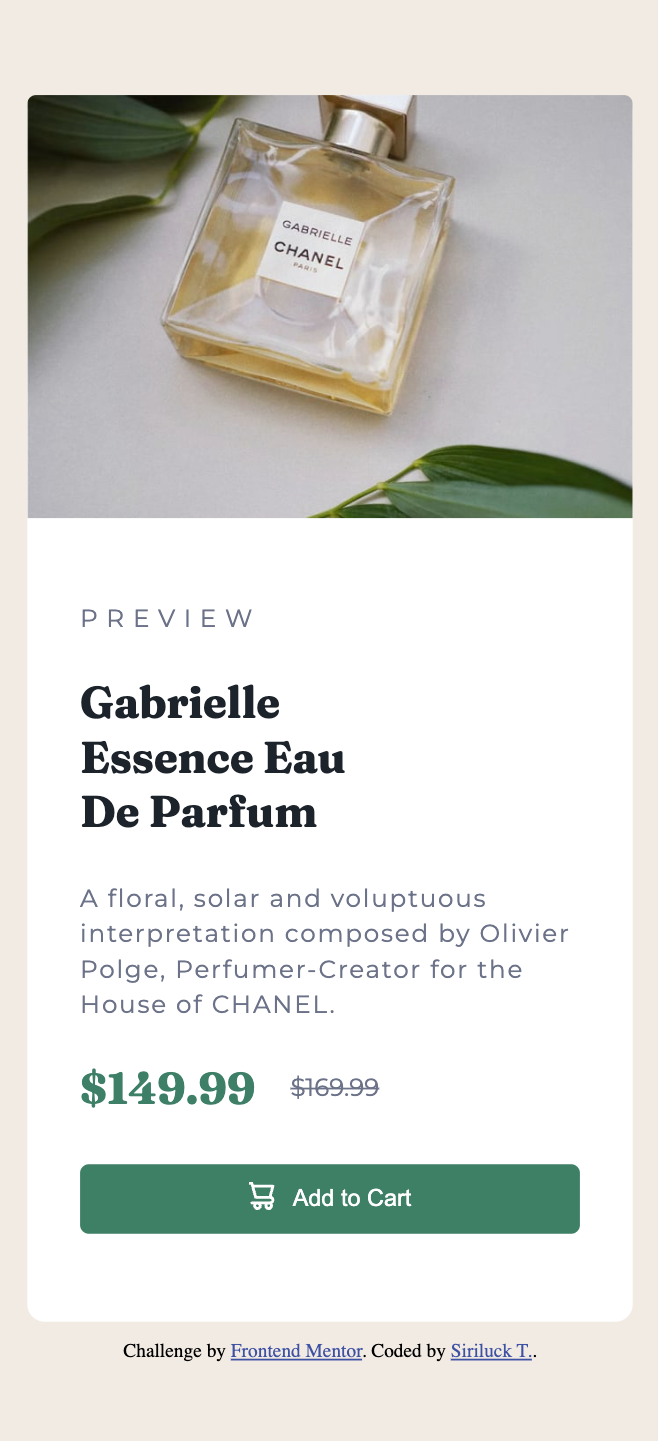
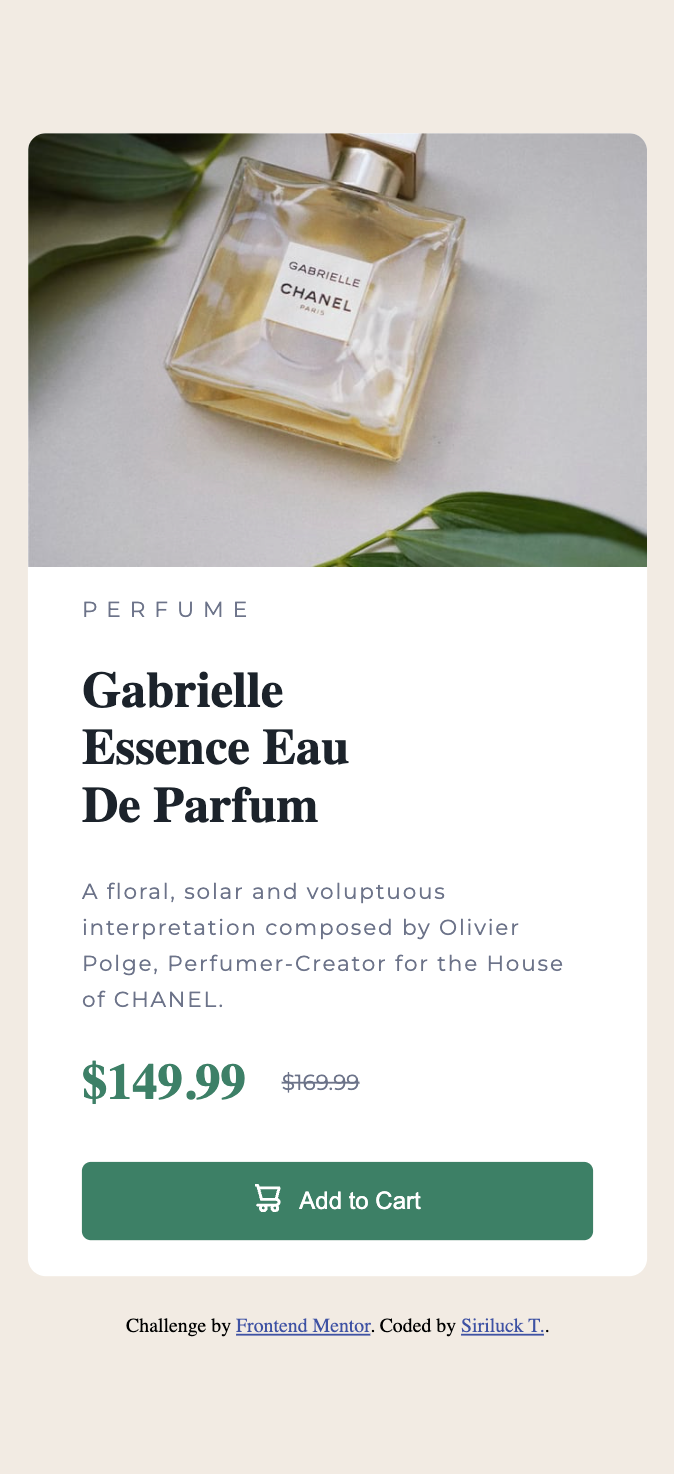
updated README.md, index.html, images. add style.css

Changed region(s): [[0.0304, 0.0624, 0.9726, 0.9667]]

diff --git a/index.html b/index.html
@@ -1,5 +1,6 @@
 <!DOCTYPE html>
 <html lang="en">
+
 <head>
   <meta charset="UTF-8">
   <meta name="viewport" content="width=device-width, initial-scale=1.0"> <!-- displays site properly based on user's device -->
@@ -11,107 +12,23 @@
   <link rel="stylesheet" href="https://fonts.google.com/specimen/Fraunces">
   <link rel="preconnect" href="https://fonts.googleapis.com">
   <link rel="preconnect" href="https://fonts.gstatic.com" crossorigin>
-  <link href="https://fonts.googleapis.com/css2?family=Montserrat:ital,wght@0,100;0,200;0,300;0,400;0,500;0,600;0,700;0,800;0,900;1,100;1,200;1,300;1,400;1,500;1,600;1,700;1,800;1,900&display=swap" rel="stylesheet">
-  <link href="https://fonts.googleapis.com/css2?family=Fraunces:ital,opsz,wght@0,9..144,100;0,9..144,200;0,9..144,300;0,9..144,400;0,9..144,500;0,9..144,600;0,9..144,700;0,9..144,800;0,9..144,900;1,9..144,100;1,9..144,200;1,9..144,300;1,9..144,400;1,9..144,500;1,9..144,600;1,9..144,700;1,9..144,800;1,9..144,900&display=swap" rel="stylesheet">
+  <link href="https://fonts.googleapis.com/css2?family=Montserrat:ital,wght@0,100;0,200;0,300;0,400;0,500;0,600;0,700;0,800;0,900;1,100;1,200;1,300;1,400;1,500;1,600;1,700;1,800;1,900&Fraunces:ital,opsz,wght@0,9..144,100;0,9..144,200;0,9..144,300;0,9..144,400;0,9..144,500;0,9..144,600;0,9..144,700;0,9..144,800;0,9..144,900;1,9..144,100;1,9..144,200;1,9..144,300;1,9..144,400;1,9..144,500;1,9..144,600;1,9..144,700;1,9..144,800;1,9..144,900&display=swap" rel="stylesheet">
+
+  <!-- css -->
+  <link rel="stylesheet" href="./style.css">
 
   <title>Frontend Mentor | Product preview card component</title>
-
-  <style>
-    body {
-      background-color: hsl(30, 38%, 92%);
-    }
-    html, body
-    {
-      height: 100%;
-    }
-    .attribution { 
-      font-size: 11px; text-align: center; 
-    }
-    .attribution a { 
-      color: hsl(228, 45%, 44%); 
-    }
-    .container {
-      margin: 0;
-      padding: 0;
-      display: flex;
-      flex-direction: column;
-      justify-content: center;
-      align-items: center;
-      height: 100vh;
-    }
-    .card-desk {
-      background-color: hsl(0, 0%, 100%);
-      border-radius: 10px;
-      width: 602px;
-      height: 450px;
-      display: flex;
-    }
-    .card-mobi {
-      display: none;
-    }
-    .container-text {
-      display: flex;
-      flex-direction: column;
-      justify-content: center;
-      padding: 30px;
-    }
-    .container-text-price {
-      display: flex;
-      align-items: center;
-    }
-    .img-desk {
-      border-radius: 10px 0 0 10px;
-    }
-    .side-text {
-      font-family: 'Montserrat', sans-serif;
-      color: hsl(228, 12%, 48%);
-      font-size: 14px;
-    }
-    .header-text-num {
-      font-family: 'Fraunces', serif;
-      color: hsl(212, 21%, 14%);
-      font-size: 25px;
-    }
-    .btn-add-to-card {
-      border: none;
-      border-radius: 5px;
-      margin: 20px 0;
-      padding: 10px 0;
-      background-color: hsl(158, 36%, 37%); 
-      display: flex; 
-      justify-content: center;
-      align-items: center;
-    }
-    button:hover {
-      background-color: hsl(156, 42%, 18%); 
-      cursor: pointer;
-    }
-    @media screen and (max-width: 605px){
-      .card-desk {
-        display: none;
-      }
-      .card-mobi {
-        display: flex;
-        width: 344px;
-        display: flex;
-        flex-direction: column;
-        background-color: hsl(0, 0%, 100%);
-        border-radius: 10px;;
-      }
-      .img-mobi {
-        border-radius: 5px 5px 0 0;
-      }
-    }
-  </style>
+  
 </head>
 <body>
   <section class="container">
-    <div class="card-desk">
-      <div>
-        <img src="https://misssiriluck.github.io/product-preview-card-component/images/image-product-desktop.jpg" class="img-desk" style="width: 300px;">
-      </div>
+    <div class="card">
+      <picture>
+        <source media="(max-width:605px)" srcset="https://misssiriluck.github.io/product-preview-card-component/images/image-product-mobile.jpg" alt="Gabrielle Essence Eau De Parfum" class="img-desk">
+        <img src="https://misssiriluck.github.io/product-preview-card-component/images/image-product-desktop.jpg" alt="Gabrielle Essence Eau De Parfum" class="img-desk">
+      </picture>
       <div class="container-text">
-        <p class="side-text" style="text-transform: uppercase; letter-spacing: 5px;">Preview</p>
+        <p class="side-text" style="text-transform: uppercase; letter-spacing: 5px;">Perfume</p>
 
         <h1 class="header-text-num" style="margin: 10px 0;">Gabrielle<br /> Essence Eau<br /> De Parfum</h1>
 
@@ -125,36 +42,12 @@
           <p class="side-text" style="margin: 0;"><s>$169.99</s></p>
         </div>
 
-        <button class="btn-add-to-card" style="color:hsl(0, 0%, 100%);"><span><img src="https://misssiriluck.github.io/product-preview-card-component/images/icon-cart.svg" style="padding-right: 10px;"></span>Add to Cart</button>
-      </div>
-    </div>
-    
-    <div class="card-mobi">
-      <div>
-        <img src="https://misssiriluck.github.io/product-preview-card-component/images/image-product-mobile.jpg" class="img-mobi" style="width: 344px;">
-      </div>
-      <div class="container-text">
-        <p class="side-text" style="text-transform: uppercase; letter-spacing: 5px;">Preview</p>
-
-        <h1 class="header-text-num" style="margin: 10px 0;">Gabrielle<br /> Essence Eau<br /> De Parfum</h1>
-
-        <p class="side-text" style="letter-spacing: 1px; line-height: 20px;">
-          A floral, solar and voluptuous interpretation composed by Olivier Polge, 
-          Perfumer-Creator for the House of CHANEL.
-        </p>
-
-        <div class="container-text-price" style="margin: 8px 0">
-          <h1 class="header-text-num" style="margin: 0; padding-right: 20px; color:hsl(158, 36%, 37%);">$149.99</h1>
-          <p class="side-text" style="margin: 0;"><s>$169.99</s></p>
-        </div>
-
-        <button class="btn-add-to-card" style="color:hsl(0, 0%, 100%);"><span><img src="https://misssiriluck.github.io/product-preview-card-component/images/icon-cart.svg" style="padding-right: 10px;"></span>Add to Cart</button>
+        <button class="btn-add-to-card" style="color:hsl(0, 0%, 100%);"><span><img src="https://misssiriluck.github.io/product-preview-card-component/images/icon-cart.svg" alt="icon-cart" style="padding-right: 10px;"></span>Add to Cart</button>
       </div>
     </div>
 
     <div class="attribution" style="margin-top: 10px">
-      Challenge by <a href="https://www.frontendmentor.io?ref=challenge" target="_blank">Frontend Mentor</a>. 
-      Coded by <a href="#">Siriluck T.</a>.
+      <p>Challenge by <a href="https://www.frontendmentor.io?ref=challenge" target="_blank">Frontend Mentor</a>. <span>Coded by <a href="https://www.frontendmentor.io/solutions/product-preview-card-component-8-IUYdKSrx" target="_blank">Siriluck T.</a>.</span></p>
     </div>
   </section>
 </body>

diff --git a/style.css b/style.css
@@ -1,0 +1,99 @@
+body {
+    background-color: hsl(30, 38%, 92%);
+}
+
+html, body
+{
+    height: 100%;
+}
+
+.attribution { 
+    font-size: 11px; text-align: center; 
+}
+
+.attribution a { 
+    color: hsl(228, 45%, 44%); 
+}
+
+.container {
+    margin: 0;
+    padding: 0;
+    display: flex;
+    flex-direction: column;
+    justify-content: center;
+    align-items: center;
+    height: 100vh;
+}
+
+.card {
+    background-color: hsl(0, 0%, 100%);
+    border-radius: 10px;
+    width: 602px;
+    height: 450px;
+    display: flex;
+}
+
+.container-text {
+    display: flex;
+    flex-direction: column;
+    justify-content: center;
+    padding: 30px;
+}
+.container-text-price {
+    display: flex;
+    align-items: center;
+}
+
+.img-desk {
+    border-radius: 10px 0 0 10px;
+    width: 300px;
+}
+
+.side-text {
+    font-family: 'Montserrat', sans-serif;
+    color: hsl(228, 12%, 48%);
+    font-size: 12px;
+}
+
+.header-text-num {
+    font-family: 'Fraunces', serif;
+    color: hsl(212, 21%, 14%);
+    font-size: 28px;
+}
+
+.btn-add-to-card {
+    border: none;
+    border-radius: 5px;
+    margin: 20px 0;
+    padding: 12px 0;
+    background-color: hsl(158, 36%, 37%); 
+    display: flex; 
+    justify-content: center;
+    align-items: center;
+}
+
+button:hover {
+    background-color: hsl(156, 42%, 18%); 
+    cursor: pointer;
+}
+
+@media screen and (max-width: 605px){
+    .card {
+    display: flex;
+    width: 344px;
+    display: flex;
+    flex-direction: column;
+    background-color: hsl(0, 0%, 100%);
+    border-radius: 10px;
+    height: fit-content;
+    }
+
+    .img-desk {
+    border-radius: 10px 10px 0 0;
+    width: 344px;
+    }
+
+    .container-text {
+        padding: 0 30px;
+    }
+}

diff --git a/README.md b/README.md
@@ -14,6 +14,7 @@ This is a solution to the [Product preview card component challenge on Frontend 
   - [Continued development](#continued-development)
   - [Useful resources](#useful-resources)
 - [Author](#author)
+- [Acknowledgments](#acknowledgments)
 
 ## Overview
 
@@ -48,14 +49,24 @@ Users should be able to:
 This is my first practiced project with Frontend Mentor. I'm just start. 
 For this lesson I learned about flexbox and @media screen for managed with frontend and responsive screen for this preview review card.
 
+I had learned a new tag <picture> from this project. This is new for me to use it.
+<picture>
+  <source media="(max-width:605px)" srcset="https://misssiriluck.github.io/product-preview-card-component/images/image-product-mobile.jpg" alt="Gabrielle Essence Eau De Parfum" class="img-desk">
+  <img src="https://misssiriluck.github.io/product-preview-card-component/images/image-product-desktop.jpg" alt="Gabrielle Essence Eau De Parfum" class="img-desk">
+</picture>
+
 ### Continued development
 
 Next step is dev with React/Vue framework, practice to build with scss/Bootstrap 
 
 ### Useful resources
 
-- [Example resource 1](https://css-tricks.com/snippets/css/a-guide-to-flexbox/) - This is an amazing article which helped me finally understand flexbox. I'd recommend it to anyone still learning this concept.
+- [css-tricks-flexbox](https://css-tricks.com/snippets/css/a-guide-to-flexbox/) - This is an amazing article which helped me finally understand flexbox. I'd recommend it to anyone still learning this concept.
 
 ## Author
 
 - Frontend Mentor - [@Siriluck T.](https://www.frontendmentor.io/profile/MissSiriluck)
+
+## Acknowledgments
+
+❤ Thank!!! ❤ [@correlucas](https://www.frontendmentor.io/profile/correlucas)
